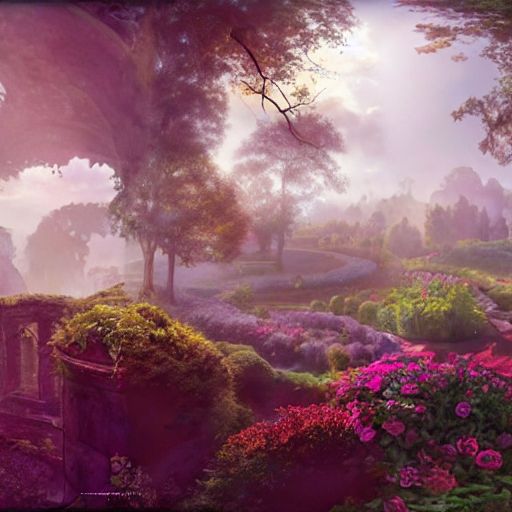
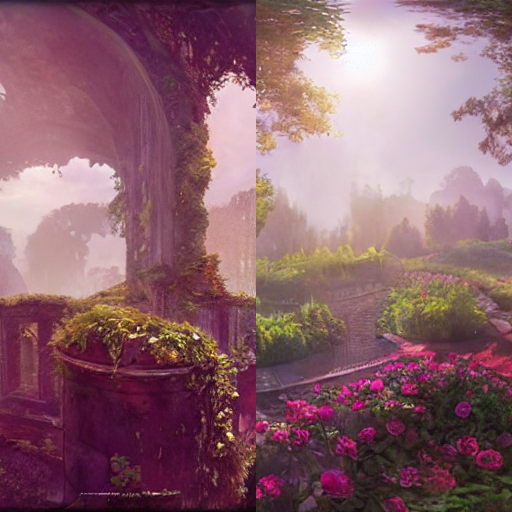
READMEの拡充

diff --git a/README.md b/README.md
@@ -8,7 +8,7 @@
 通常の画像で我慢することにした。
 
 このアプリを作成中に [Text2Light](https://github.com/FrozenBurning/Text2Light) という、プロンプトからパノラマ画像を作成するモデルを知ったが、
-InPainting（画像の上書き）ができるかどうかがよくわからなかったのと、
+Inpainting（画像の上書き）ができるかどうかがよくわからなかったのと、
 この作品をイグ BFC3 に出すためには今から試行錯誤する時間がなかったので、諦めた。
 
 UI は [react-three-fiber](https://github.com/pmndrs/react-three-fiber) 、[drei](https://github.com/pmndrs/drei) および [react-xr](https://github.com/pmndrs/react-xr) で作成した。
@@ -22,6 +22,87 @@ UI は [react-three-fiber](https://github.com/pmndrs/react-three-fiber) 、[drei
 に対応している。
 
 ## 画像の生成方法
+
+まず Stable Diffusion に「360 panorama,skybox,environment map of magnificent rose garden,warm moody light, highly detailed matte fantasy painting」
+というプロンプトを与えて画像を生成します（このプロンプトは Twitter 上で見かけたとある[ツイート](https://twitter.com/yoglehonpo/status/1566188435530199040)を参考にしました）。
+
+これで以下の画像が生成されます。
+
+！(最初に生成した画像)[https://raw.githubusercontent.com/tannakaken/vertigo-garden/master/docs/image1.png]
+
+これは左右がつながりませんので、左右反転して、中央の部分を Stable Diffusion の Inpainting で上書きします。
+
+まず左右反転します。
+
+！(左右反転した画像)[https://raw.githubusercontent.com/tannakaken/vertigo-garden/master/docs/image2.png]
+
+真ん中の部分だけを上書きします。
+
+！(上書きする部分)[https://raw.githubusercontent.com/tannakaken/vertigo-garden/master/docs/image3.png]
+
+すると次の画像ができます。
+
+！(上書きする部分)[https://raw.githubusercontent.com/tannakaken/vertigo-garden/master/docs/image4.png]
+
+これで一回転しても繋がる画像ができました。
+
+アプリではスタートから左側に回るとこの画像がずっと表示され続けます。
+対して右側に回転した場合は、自然に繋がるように別の画像に変わっていきます。
+
+その画像を作るために、この画像の右側と左側を交換した画像の右側を上書きします（左右がつながる画像なので、右側と左側を交換しても、画像は自然に繋がっています）。
+
+画像を自然につなげるために、上書き部分は真ん中から少しはみ出していますが、人間の視野がそれほど広くないのであまり気になりません。
+
+！(次に上書きする部分)[https://raw.githubusercontent.com/tannakaken/vertigo-garden/master/docs/image5.png]
+
+新しい画像を上書きするために、先ほどのプロンプトを少し変えた「360 panorama,skybox,environment map of fire mountain,dark moody light, highly detailed matte fantasy painting」というものを使ってみました。
+
+すると次のような画像が生成されます。
+
+！(次に上書きする部分)[https://raw.githubusercontent.com/tannakaken/vertigo-garden/master/docs/image6.png]
+
+同じように左右を入れ替えて、同じプロンプトで画像を生成すると、全体がこのプロンプトで生成された画像が手に入ります。
+
+！(次に上書きする部分)[https://raw.githubusercontent.com/tannakaken/vertigo-garden/master/docs/image7.png]
+
+！(次に上書きする部分)[https://raw.githubusercontent.com/tannakaken/vertigo-garden/master/docs/image8.png]
+
+このように二つおきにプロンプトを変えていくことで、半回転ごとに変わっていく画像が手に入ります。
+
+！(次に上書きする部分)[https://raw.githubusercontent.com/tannakaken/vertigo-garden/master/docs/image9.png]
+
+！(次に上書きする部分)[https://raw.githubusercontent.com/tannakaken/vertigo-garden/master/docs/image10.png]
+
+！(次に上書きする部分)[https://raw.githubusercontent.com/tannakaken/vertigo-garden/master/docs/image11.png]
+
+！(次に上書きする部分)[https://raw.githubusercontent.com/tannakaken/vertigo-garden/master/docs/image12..png]
+
+！(次に上書きする部分)[https://raw.githubusercontent.com/tannakaken/vertigo-garden/master/docs/image13.png]
+
+！(次に上書きする部分)[https://raw.githubusercontent.com/tannakaken/vertigo-garden/master/docs/image14.png]
+
+これを最初の画像につなげるために、
+最後の画像の右側と最初の画像の左側をつなげ、真ん中を修正すればいいと考えました。
+
+！(次に上書きする部分)[https://raw.githubusercontent.com/tannakaken/vertigo-garden/master/docs/image15.png]
+
+！(次に上書きする部分)[https://raw.githubusercontent.com/tannakaken/vertigo-garden/master/docs/image16.png]
+
+これを実際のアプリで繋げようとして問題に気づきます。
+
+真ん中を上書きしてしまったため、画像が繋がらなくなってしまいました。
+
+やり直そうかとも思いましたが、簡単な解決策を見つけました。元の画像も変えてしまえばいのです。
+
+！(次に上書きする部分)[https://raw.githubusercontent.com/tannakaken/vertigo-garden/master/docs/image16.png]
+
+そして、最初の画像とのつなげるために、もう二つ画像を作りました。
+
+！(次に上書きする部分)[https://raw.githubusercontent.com/tannakaken/vertigo-garden/master/docs/image17.png]
+
+！(次に上書きする部分)[https://raw.githubusercontent.com/tannakaken/vertigo-garden/master/docs/image18.png]
+
+こうして花畑から始まり、半回転ごとに風景が変わり、最後にまた花畑へ終わる、一連の画像ができました。
 
 ## ローカルでの起動方法
 
